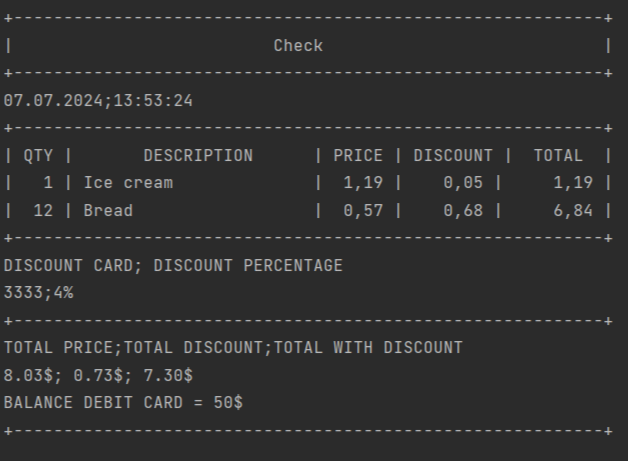
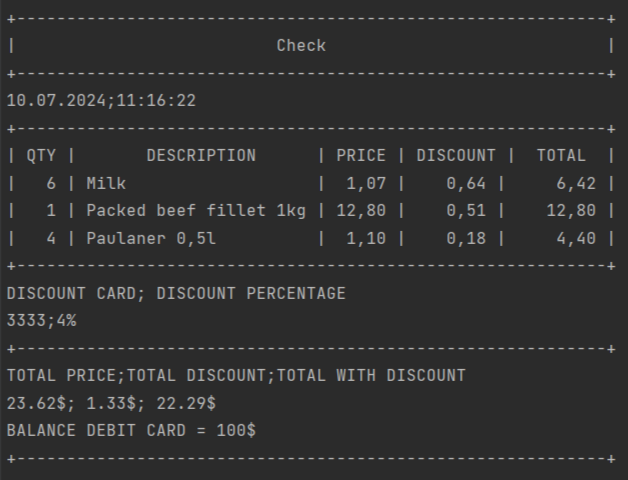
Changed README.md

diff --git a/README.md b/README.md
@@ -1,56 +1,61 @@
 # Check Generator
+
 Приложение генерирует чек для магазина исходя из входных параметров
+
 - Создано на Java 21
-- Место хранения файлов `products.csv` и `discountCards.csv`: `./src/main/resources`
+- Gradle 8.5
+- PostgreSQL
+- Место хранения DDL/DML в файле `src/main/resources/data.sql`
+
 # Инструкция по запуску:
+
 При использовании **Java 21**:
+
 ```
 ./gradlew shadowJar
 ```
+
 ```
-java -jar .\build\libs\app.jar 1-1 2-12 discountCard=3333 balanceDebitCard=50 pathToFile=./products.csv saveToFile=./result_file.csv
+java -jar .\build\libs\app.jar 1-6 18-4 10-1 discountCard=3333 balanceDebitCard=100 saveToFile=./result_file.csv datasource.url=jdbc:postgresql://localhost:5432/check datasource.username=postgres datasource.password=postgres
 ```
+
 Формат команды:
 
-`java -jar .\build\libs\app.jar <items> discountCard=<cardNumber> balanceDebitCard=<balance> pathToFile=<pathToFile> saveToFile=<saveToFile>`
+`java -jar .\build\libs\app.jar <items> discountCard=<cardNumber> balanceDebitCard=<balance> saveToFile=<saveToFile>
+datasource.url=<url> datasource.username=<username> datasource.password=<password>`
 
 Расшифровка команды:
+
 - `<items>` - (id-quantity): ID товара-Количество
 - `<cardNumber>` - номер дисконтной карты
 - `<balance>` - баланс дебетовой карты
-- `<pathToFile>` - путь к файлу с товарами
 - `<saveToFile>` - путь к файлу с результатом
+- `<url>` - URL базы данных
+- `<username>` - имя пользователя базы данных
+- `<password>` - пароль пользователя базы данных
 
 ### По команде создается файл `result_file.csv`:
+
 ```text
 Date;Time
-07.07.2024;13:53:24
+10.07.2024;11:16:22
 
 QTY;DESCRIPTION;PRICE;DISCOUNT;TOTAL
-1;Ice cream;1.19$;0.05$;1.19$
-12;Bread;0.57$;0.68$;6.84$
+6;Milk;1.07$;0.64$;6.42$
+1;Packed beef fillet 1kg;12.80$;0.51$;12.80$
+4;Paulaner 0,5l;1.10$;0.18$;4.40$
 
 DISCOUNT CARD;DISCOUNT PERCENTAGE
 3333;4%
 
 TOTAL PRICE;TOTAL DISCOUNT;TOTAL WITH DISCOUNT
-8.03$;0.73$;7.30$
+23.62$;1.33$;22.29$
 ```
 
 ### Дублирование чека в консоли:
+
 ![check_console.png](check_console.png)
 
-### Проверка выбрасывания ошибок:
-- команда: `java -jar .\build\libs\app.jar 1-1 2-12 discountCard=3333 balanceDebitCard=50 pathToFile=./products.csv`.
-Результат, файл `result.csv`:
-```text
-ERROR
-BAD REQUEST
-```
+### Функционал покрыт юнит-тестами:
 
-- команда: `java -jar .\build\libs\app.jar 1-1 2-12 discountCard=3333 balanceDebitCard=50 saveToFile=./result_file.csv`.
-Результат, файл `result_file.csv`:
-```text
-ERROR
-BAD REQUEST
-```
+![coverage.png](coverage.png)
